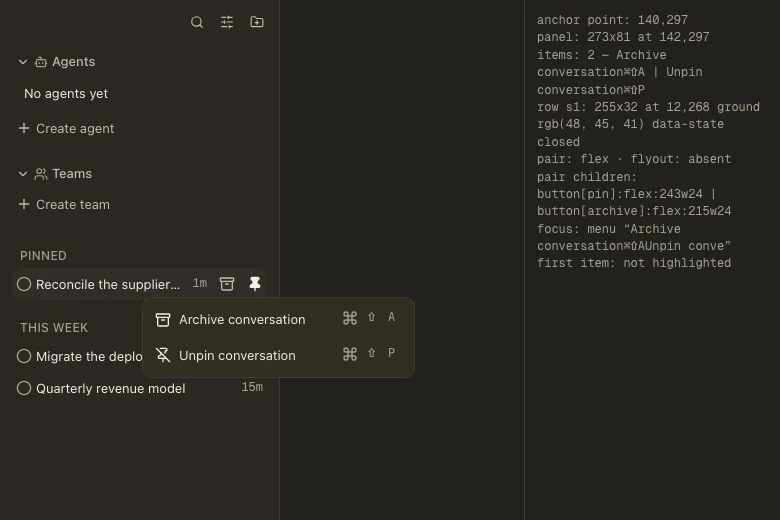
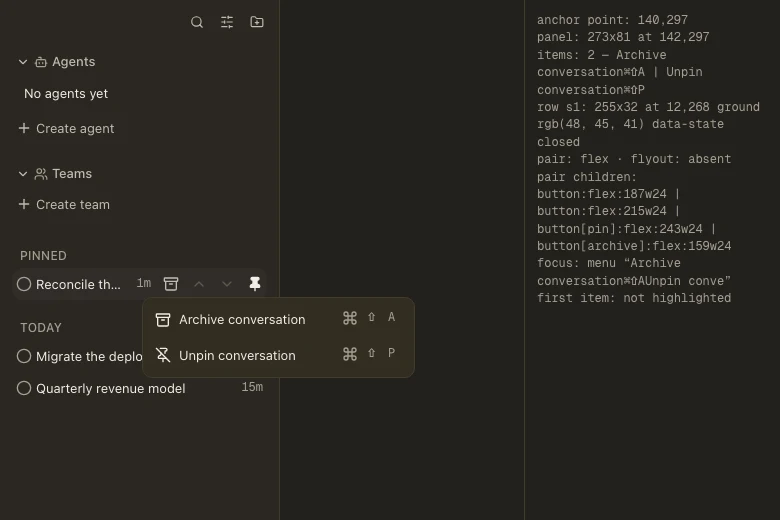
docs(evidence): re-shoot pinned-row on the #697 fold, and record it (#694)
The fold changes what a fresh render of the pinned-row state shows: #697's
strip adds the drag grip (shed below the break, so absent at this width) and
the move pair, and this branch's hold keeps the pair revealed while the menu
is open - verified in the re-shot frame itself. Re-shot narrow via the set's
own rig (`capture-evidence.mjs --only=chat-sidebar-row-context-menu--pinned-row
--themes=localOperatorDark,localOperatorLight`, run from the folded tree),
dark and light committed.

Every other state was re-rendered in the same run and left untouched: the
unpinned rows carry no strip change (the trio is guarded on `row.pinned`),
`pointer-hover` and `archived-row` came back BYTE-identical, and the rest of
the round-1 half differs only by the capture-clock artifact the set's README
records - its header crosses from `THIS WEEK` to `TODAY` because the
fixture's rows are dated minutes before the running clock - so their
committed versions stand as right for their own capture instant. The clock
note, the frame table's pinned-row row and the fold count (eight) are
updated; the manifest gains `pinnedStripReshootNote` and its registration.

Changed region(s): [[0.6769, 0.3385, 0.9538, 0.5846], [0.1538, 0.5231, 0.3077, 0.5538], [0.0308, 0.6154, 0.1231, 0.6462]]

diff --git a/docs/evidence/chat-sidebar-row-context-menu/README.md b/docs/evidence/chat-sidebar-row-context-menu/README.md
@@ -60,7 +60,7 @@ numbers below are what the final frames read.
 | `pointer-open` | the menu at the pointer on s2, reveal and hover ground held |
 | `pointer-hover` | the same scene with the pointer moved onto the first item: `data-highlighted`, and the focus ring the primitive's own focus draws |
 | `keyboard-open` | the keyboard opener: anchor at the row's box edge, focus in the first item |
-| `pinned-row` | `Unpin conversation` on s1, the row that draws its mark at rest |
+| `pinned-row` | `Unpin conversation` on s1, the row that draws its mark at rest — re-shot at the #697 fold with its revealed move pair (both arrows boundary-inked while one pinned row is shown), the pair held under the open menu |
 | `pin-state-unknown` | s3, `pinned === undefined`: one row, and the row draws no pin control |
 | `archive-withheld` | `session_archive` absent: one row (`Pin conversation`), not a disabled one |
 | `archived-row` | the row behind `Include archived`: item 1 reads `Unarchive conversation` (288 × 81, the widest state) |
@@ -152,24 +152,27 @@ Every number is read out of the DOM by the story; `docs/design/row-context-menu.
   18,352 bytes) — both are “hover settled, no menu, flyout drawn”. Sixteen
   distinct pictures under twenty names, and the coincidences are the
   measurement rather than two takes of one shot.
-- **Two capture clocks (design round 2, D6).** The round-1 half was written at
-  00:00:17–00:00:59 on 2026-09-30 over rows dated the previous local day, so
-  its list header reads `THIS WEEK` (ink 66px); the two remediation states
-  were written at 02:51 over rows dated minutes before, so they read `TODAY`
-  (ink 40px). Both are right for their capture instant — the sidebar sections
-  by the local calendar day — and no geometry, readout or claim in the set
+- **Two capture clocks — three since the #697 fold (design round 2, D6).** The
+  round-1 half was written at 00:00:17–00:00:59 on 2026-09-30 over rows dated
+  the previous local day, so its list header reads `THIS WEEK` (ink 66px); the
+  two remediation states were written at 02:51 over rows dated minutes before,
+  so they read `TODAY` (ink 40px); and `pinned-row` was re-shot at 05:35 on
+  the fold onto `50b9daf8fe`, over rows dated minutes before, so it reads
+  `TODAY` too. Each is right for its capture instant — the sidebar sections by
+  the local calendar day — and no geometry, readout or claim in the set
   depends on the header.
 - **This set supersedes the design round's proposal set**
   (`../chat-sidebar-row-context-menu-proposal/`), which lives on
   `design/row-context-menu-694` as the record of what was proposed — its
   `pointer-open-unheld` control reproduces a defect the shipped hold removes,
   and nothing in this set re-photographs it.
-- **The fold.** The branch carries seven merges of `origin/main` (`0044c53422`,
-  `9dd18ab318`, `0f35e824ac`, `1cb4a2a8b3`, `8712e8684c`, `2e866d5d49` and
-  `efca9e16fc` — the round-2 and round-3 folds, the last landed as
-  `64202be19f`); the two remediation states were captured at the commit
-  `addedAtHead` names, and the manifest's pass record names the commits the
-  frames came from.
+- **The fold.** The branch carries eight merges of `origin/main` (`0044c53422`,
+  `9dd18ab318`, `0f35e824ac`, `1cb4a2a8b3`, `8712e8684c`, `2e866d5d49`,
+  `efca9e16fc` and `50b9daf8fe` — the round-2 and round-3 folds, the last two
+  landed as `64202be19f` and `c88736f3b4`); the two remediation states were
+  captured at the commit `addedAtHead` names, `pinned-row` was re-shot at the
+  `50b9daf8fe` fold (see the clocks note), and the manifest's pass record
+  names the commits the frames came from.
 - The story renders the app's real `ChatSidebar` over a stubbed transport, so
   no frame touches a live backend; `--allow-backend` is passed because the
   operator's own backend answers on 1111 and the rig refuses a run that could
